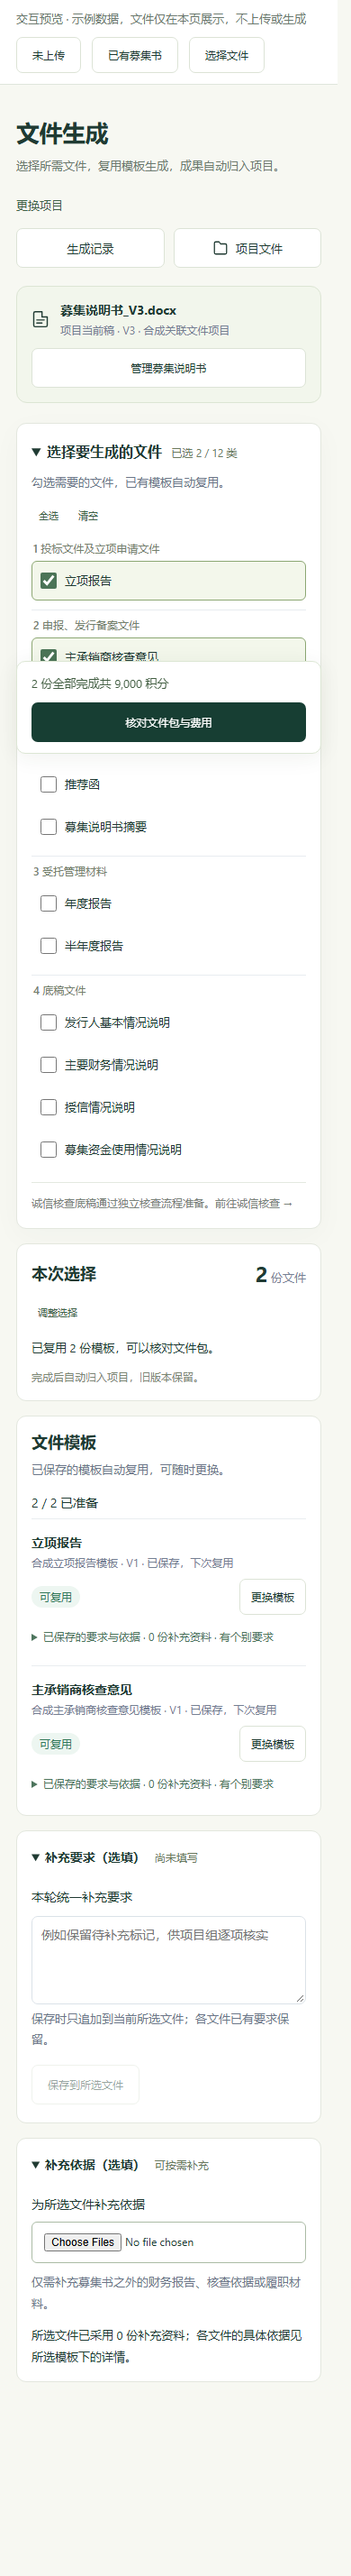
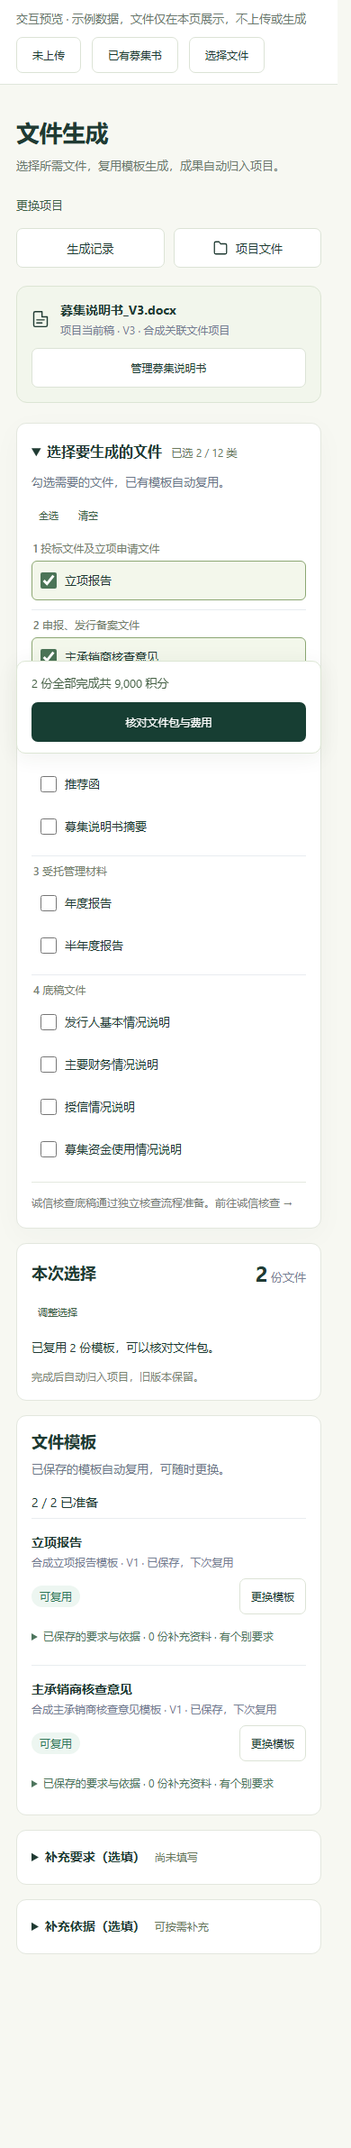
fix(web): balance file generation panels across the page

Changed region(s): [[0.0308, 0.0, 0.8923, 0.9316], [0.6154, 0.4658, 0.8308, 0.4969]]

diff --git a/apps/web/src/file-workspace.ts b/apps/web/src/file-workspace.ts
@@ -224,10 +224,9 @@ export class FileWorkspace {
       <section class="panel pf-original-operations" id="pf-original-operations" aria-label="原保存与需要处理的事项" hidden><h2>先处理原保存</h2><div id="pf-note-recovery" hidden><p id="pf-note-recovery-label"></p><pre id="pf-note-recovery-preview" class="pf-entry-note" hidden></pre><div id="pf-note-recovery-actions"></div></div><div id="pf-live-support-recovery" hidden></div><div id="pf-support-recovery" hidden></div><div id="pf-template-recovery" hidden></div></section>
       <div class="pf-generation-grid"><div class="pf-selection-workspace">      <details class="panel pf-document-directory" id="pf-document-directory" ${directoryOpen?'open':''}><summary>选择要生成的文件 <span id="pf-directory-summary"></span></summary><div class="pf-directory-content"><div class="pf-section-head"><p>勾选需要的文件，已有模板自动复用。</p><div><button class="text-button" id="pf-select-all">全选</button> <button class="text-button" id="pf-select-none">清空</button></div></div>${['1','2.2','3','4.1'].map(folder=>`<div class="pf-category"><h3>${folder[0]} ${PROJECT_DOCUMENT_FOLDERS.find(f=>f.id===folder[0])!.name}</h3>${PROJECT_DOCUMENT_CATALOG.filter(d=>d.folder===folder).map(d=>`<label class="pf-document-option" title="${esc(d.hint)}"><input type="checkbox" data-pf-type="${d.id}" ${this.selected.has(d.id)?'checked':''}/><span><strong>${d.name}</strong><small class="pf-document-hint">${d.hint}</small></span></label>`).join('')}</div>`).join('')}<p class="muted pf-integrity-note">诚信核查底稿通过独立核查流程准备。<a href="${esc('#integrity?'+withProjectContext(new URLSearchParams({project:this.id!})))}">前往诚信核查 →</a></p></div></details>
 <aside class="pf-selection-side"><section class="panel pf-package pf-package-overview" id="pf-package-overview" aria-label="本次文件包"><div class="pf-package-heading"><h2>本次选择</h2><strong class="pf-count" id="pf-count">${this.selected.size}<small> 份文件</small></strong></div><div id="pf-selected-documents"></div><div id="pf-package-readiness" role="status"></div><p>完成后自动归入项目，旧版本保留。</p></section>
-      <section class="panel pf-template-preparation"><div class="pf-section-head"><div><h2>文件模板</h2><p>已保存的模板自动复用，可随时更换。</p></div><span id="pf-prepared"></span></div><div id="pf-template-list"></div></section>
-
+      <section class="panel pf-template-preparation"><div class="pf-section-head"><div><h2>文件模板</h2><p>已保存的模板自动复用，可随时更换。</p></div><span id="pf-prepared"></span></div><div id="pf-template-list"></div></section></aside></div>
       <div class="pf-optional-grid"><details class="panel pf-optional" id="pf-requirements-details" ${requirementsOpen?'open':''}><summary>补充要求（选填） <span id="pf-note-summary"></span></summary><div class="pf-optional-content"><label for="pf-requirements">本轮统一补充要求</label><textarea id="pf-requirements" rows="4" maxlength="12000" placeholder="例如保留待补充标记，供项目组逐项核实">${esc(this.note)}</textarea><p>保存时只追加到当前所选文件；各文件已有要求保留。</p><div id="pf-note-actions-slot"><div id="pf-note-actions"><button class="btn secondary" id="pf-save-requirements">保存到所选文件</button><p id="pf-note-status" role="status">${this.note?'未保存的补充要求已从本浏览器会话恢复。':''}</p></div></div></div></details>
-      <details class="panel pf-optional" id="pf-support-details" ${supportOpen?'open':''}><summary>补充依据（选填） <span id="pf-support-summary"></span></summary><div class="pf-optional-content"><label>为所选文件补充依据<input id="pf-support" type="file" multiple accept=".docx,.pdf,.xlsx"/></label><p class="muted">仅需补充募集书之外的财务报告、核查依据或履职材料。</p><div id="pf-support-actions-slot"><div id="pf-support-actions"><div id="pf-support-list"></div><button class="btn secondary" id="pf-retry-support" hidden>重试保存补充资料</button></div></div></div></details></div></aside></div><footer class="pf-footer pf-documents-next"><a class="btn secondary" href="${esc(this.filesHref())}">返回项目文件</a><div><span id="pf-price"></span><button class="btn secondary" id="pf-footer-template" hidden>添加模板</button><button class="btn primary" id="pf-generate" disabled>核对文件包与费用</button></div></footer></div></div>`,'generate');
+      <details class="panel pf-optional" id="pf-support-details" ${supportOpen?'open':''}><summary>补充依据（选填） <span id="pf-support-summary"></span></summary><div class="pf-optional-content"><label>为所选文件补充依据<input id="pf-support" type="file" multiple accept=".docx,.pdf,.xlsx"/></label><p class="muted">仅需补充募集书之外的财务报告、核查依据或履职材料。</p><div id="pf-support-actions-slot"><div id="pf-support-actions"><div id="pf-support-list"></div><button class="btn secondary" id="pf-retry-support" hidden>重试保存补充资料</button></div></div></div></details></div><footer class="pf-footer pf-documents-next"><a class="btn secondary" href="${esc(this.filesHref())}">返回项目文件</a><div><span id="pf-price"></span><button class="btn secondary" id="pf-footer-template" hidden>添加模板</button><button class="btn primary" id="pf-generate" disabled>核对文件包与费用</button></div></footer></div></div>`,'generate');
     this.bindPreparationView();
     const choseManually=()=>{this.entryAdopted=undefined;this.dismissEntry();};
     document.querySelectorAll<HTMLInputElement>('[data-pf-type]').forEach(c=>c.addEventListener('change',()=>{if(this.busy)return;choseManually();const type=c.dataset.pfType as M4DocumentType;if(c.checked)this.selected.add(type);else this.selected.delete(type);this.saveSelection();this.paintTemplates();this.paintSupport();}));

diff --git a/product-prototype/public/file-generation.html b/product-prototype/public/file-generation.html
@@ -24,8 +24,7 @@
 
 立项报告原有补充要求</p><ul><li>直接使用募集书和模板，可按需补充依据。</li></ul></details></article><article class="pf-prepared-file"><div class="pf-template-row"><div><strong>主承销商核查意见</strong><small>合成主承销商核查意见模板 · V1 · 已保存，下次复用</small></div><span class="pf-chip ">可复用</span><button class="btn secondary" data-pf-template="underwriter">更换模板</button></div><details class="pf-reused-inputs" data-pf-reused="underwriter"><summary>已保存的要求与依据 · 0 份补充资料 · 有个别要求</summary><p data-pf-saved-requirements="underwriter">主承销商核查意见的专业要求
 
-主承销商核查意见原有补充要求</p><ul><li>直接使用募集书和模板，可按需补充依据。</li></ul></details></article></div></section>
-
+主承销商核查意见原有补充要求</p><ul><li>直接使用募集书和模板，可按需补充依据。</li></ul></details></article></div></section></aside></div>
       <div class="pf-optional-grid"><details class="panel pf-optional" id="pf-requirements-details" open=""><summary>补充要求（选填） <span id="pf-note-summary">尚未填写</span></summary><div class="pf-optional-content"><label for="pf-requirements">本轮统一补充要求</label><textarea id="pf-requirements" rows="4" maxlength="12000" placeholder="例如保留待补充标记，供项目组逐项核实" style=""></textarea><p>保存时只追加到当前所选文件；各文件已有要求保留。</p><div id="pf-note-actions-slot"><div id="pf-note-actions"><button class="btn secondary" id="pf-save-requirements" disabled="">保存到所选文件</button><button class="text-button" id="pf-stop-note" hidden="">停止继续保存要求</button><p id="pf-note-status" role="status"></p></div></div></div></details>
-      <details class="panel pf-optional" id="pf-support-details" open=""><summary>补充依据（选填） <span id="pf-support-summary">可按需补充</span></summary><div class="pf-optional-content"><label>为所选文件补充依据<input id="pf-support" type="file" multiple="" accept=".docx,.pdf,.xlsx" style=""></label><p class="muted">仅需补充募集书之外的财务报告、核查依据或履职材料。</p><div id="pf-support-actions-slot"><div id="pf-support-actions"><div id="pf-support-list">所选文件已采用 0 份补充资料；各文件的具体依据见所选模板下的详情。</div><button class="btn secondary" id="pf-retry-support" hidden="">重试保存补充资料</button><button class="text-button" id="pf-stop-support" hidden="">停止继续补充</button></div></div></div></details></div></aside></div><footer class="pf-footer pf-documents-next"><a class="btn secondary" href="#/projects/synthetic-navigation-N/files">返回项目文件</a><div><span id="pf-price">2 份全部完成共 9,000 积分</span><button class="btn secondary" id="pf-footer-template" hidden="">添加 0 份模板</button><button class="btn primary" id="pf-generate">核对文件包与费用</button></div></footer></div></div></template>
+      <details class="panel pf-optional" id="pf-support-details" open=""><summary>补充依据（选填） <span id="pf-support-summary">可按需补充</span></summary><div class="pf-optional-content"><label>为所选文件补充依据<input id="pf-support" type="file" multiple="" accept=".docx,.pdf,.xlsx" style=""></label><p class="muted">仅需补充募集书之外的财务报告、核查依据或履职材料。</p><div id="pf-support-actions-slot"><div id="pf-support-actions"><div id="pf-support-list">所选文件已采用 0 份补充资料；各文件的具体依据见所选模板下的详情。</div><button class="btn secondary" id="pf-retry-support" hidden="">重试保存补充资料</button><button class="text-button" id="pf-stop-support" hidden="">停止继续补充</button></div></div></div></details></div><footer class="pf-footer pf-documents-next"><a class="btn secondary" href="#/projects/synthetic-navigation-N/files">返回项目文件</a><div><span id="pf-price">2 份全部完成共 9,000 积分</span><button class="btn secondary" id="pf-footer-template" hidden="">添加 0 份模板</button><button class="btn primary" id="pf-generate">核对文件包与费用</button></div></footer></div></div></template>
 <script type="module" src="file-generation-preview.js"></script></body></html>

diff --git a/apps/web/test-evidence/file-generation-ux-20261027/documents.html b/apps/web/test-evidence/file-generation-ux-20261027/documents.html
@@ -6,7 +6,6 @@
 
 立项报告原有补充要求</p><ul><li>直接使用募集书和模板，可按需补充依据。</li></ul></details></article><article class="pf-prepared-file"><div class="pf-template-row"><div><strong>主承销商核查意见</strong><small>合成主承销商核查意见模板 · V1 · 已保存，下次复用</small></div><span class="pf-chip ">可复用</span><button class="btn secondary" data-pf-template="underwriter">更换模板</button></div><details class="pf-reused-inputs" data-pf-reused="underwriter"><summary>已保存的要求与依据 · 0 份补充资料 · 有个别要求</summary><p data-pf-saved-requirements="underwriter">主承销商核查意见的专业要求
 
-主承销商核查意见原有补充要求</p><ul><li>直接使用募集书和模板，可按需补充依据。</li></ul></details></article></div></section>
-
+主承销商核查意见原有补充要求</p><ul><li>直接使用募集书和模板，可按需补充依据。</li></ul></details></article></div></section></aside></div>
       <div class="pf-optional-grid"><details class="panel pf-optional" id="pf-requirements-details" open=""><summary>补充要求（选填） <span id="pf-note-summary">尚未填写</span></summary><div class="pf-optional-content"><label for="pf-requirements">本轮统一补充要求</label><textarea id="pf-requirements" rows="4" maxlength="12000" placeholder="例如保留待补充标记，供项目组逐项核实" style=""></textarea><p>保存时只追加到当前所选文件；各文件已有要求保留。</p><div id="pf-note-actions-slot"><div id="pf-note-actions"><button class="btn secondary" id="pf-save-requirements" disabled="">保存到所选文件</button><button class="text-button" id="pf-stop-note" hidden="">停止继续保存要求</button><p id="pf-note-status" role="status"></p></div></div></div></details>
-      <details class="panel pf-optional" id="pf-support-details" open=""><summary>补充依据（选填） <span id="pf-support-summary">可按需补充</span></summary><div class="pf-optional-content"><label>为所选文件补充依据<input id="pf-support" type="file" multiple="" accept=".docx,.pdf,.xlsx" style=""></label><p class="muted">仅需补充募集书之外的财务报告、核查依据或履职材料。</p><div id="pf-support-actions-slot"><div id="pf-support-actions"><div id="pf-support-list">所选文件已采用 0 份补充资料；各文件的具体依据见所选模板下的详情。</div><button class="btn secondary" id="pf-retry-support" hidden="">重试保存补充资料</button><button class="text-button" id="pf-stop-support" hidden="">停止继续补充</button></div></div></div></details></div></aside></div><footer class="pf-footer pf-documents-next"><a class="btn secondary" href="#/projects/synthetic-navigation-N/files">返回项目文件</a><div><span id="pf-price">2 份全部完成共 9,000 积分</span><button class="btn secondary" id="pf-footer-template" hidden="">添加 0 份模板</button><button class="btn primary" id="pf-generate">核对文件包与费用</button></div></footer></div></div>
+      <details class="panel pf-optional" id="pf-support-details" open=""><summary>补充依据（选填） <span id="pf-support-summary">可按需补充</span></summary><div class="pf-optional-content"><label>为所选文件补充依据<input id="pf-support" type="file" multiple="" accept=".docx,.pdf,.xlsx" style=""></label><p class="muted">仅需补充募集书之外的财务报告、核查依据或履职材料。</p><div id="pf-support-actions-slot"><div id="pf-support-actions"><div id="pf-support-list">所选文件已采用 0 份补充资料；各文件的具体依据见所选模板下的详情。</div><button class="btn secondary" id="pf-retry-support" hidden="">重试保存补充资料</button><button class="text-button" id="pf-stop-support" hidden="">停止继续补充</button></div></div></div></details></div><footer class="pf-footer pf-documents-next"><a class="btn secondary" href="#/projects/synthetic-navigation-N/files">返回项目文件</a><div><span id="pf-price">2 份全部完成共 9,000 积分</span><button class="btn secondary" id="pf-footer-template" hidden="">添加 0 份模板</button><button class="btn primary" id="pf-generate">核对文件包与费用</button></div></footer></div></div>

diff --git a/apps/web/tests/file-generation-workbench.spec.ts b/apps/web/tests/file-generation-workbench.spec.ts
@@ -574,10 +574,18 @@ test('source to directory preserves the exact version and presents selection bes
   const directory=await page.locator('#pf-document-directory').boundingBox(),side=await page.locator('.pf-selection-side').boundingBox();
   expect(directory!.width).toBeGreaterThan(380);expect(side!.width).toBeGreaterThan(290);
   expect(directory!.height).toBeLessThan(660);
+  expect(side!.height).toBeLessThan(directory!.height+120);
   expect(Math.abs(directory!.y-side!.y)).toBeLessThan(3);expect(side!.x).toBeGreaterThan(directory!.x+directory!.width);
   for(const panel of await page.locator('.pf-selection-side > *').all()){
     const box=(await panel.boundingBox())!;expect(Math.abs(box.x-side!.x)).toBeLessThan(2);expect(Math.abs(box.width-side!.width)).toBeLessThan(2);
   }
+  const optional=await page.locator('.pf-optional-grid').boundingBox(),requirements=await page.locator('#pf-requirements-details').boundingBox(),support=await page.locator('#pf-support-details').boundingBox();
+  expect(optional!.y).toBeGreaterThanOrEqual(Math.max(directory!.y+directory!.height,side!.y+side!.height));
+  expect(Math.abs(optional!.x-directory!.x)).toBeLessThan(2);
+  expect(Math.abs(optional!.x+optional!.width-side!.x-side!.width)).toBeLessThan(2);
+  expect(Math.abs(requirements!.y-support!.y)).toBeLessThan(2);
+  expect(support!.x).toBeGreaterThan(requirements!.x+requirements!.width);
+  expect(Math.abs(requirements!.width-support!.width)).toBeLessThan(2);
   await expect(page.locator('.pf-document-option')).toHaveCount(12);
   for(const row of await page.locator('.pf-document-option').all()){
     const box=(await row.boundingBox())!;expect(box.height).toBeGreaterThanOrEqual(44);expect(box.height).toBeLessThan(50);

diff --git a/product-prototype/public/file-generation-ux.css b/product-prototype/public/file-generation-ux.css
@@ -72,8 +72,7 @@
 .pf-selection-side .pf-chip { justify-self: start; align-self: center; }
 .pf-selection-side .pf-reused-inputs { font-size: 12px; }
 .pf-selection-side .pf-template-preparation[hidden] { display: none; }
-.pf-documents-layout .pf-optional-grid { display: grid; grid-template-columns: 1fr 1fr; margin-top: 22px; gap: 22px; }
-.pf-documents-layout .pf-selection-side .pf-optional-grid { grid-template-columns: minmax(0,1fr); margin: 0; gap: 16px; }
+.pf-documents-layout .pf-optional-grid { display: grid; grid-area: auto; grid-template-columns: minmax(0,1fr) minmax(0,1fr); align-items: start; margin-top: 22px; gap: 22px; }
 .pf-documents-layout .pf-optional { box-shadow: none; margin: 0; }
 .pf-documents-layout .pf-documents-next { position: sticky; bottom: 12px; z-index: 4; margin: 22px 0 0; padding: 16px 20px; background: #fff; box-shadow: 0 4px 24px #243a2312; }
 .pf-documents-next #pf-price { font-size: 13px; }

diff --git a/product-prototype/public/file-generation-preview.js b/product-prototype/public/file-generation-preview.js
@@ -3,6 +3,7 @@ const host = document.querySelector('#preview');
 const message = text => { document.querySelector('#preview-message').textContent = text; };
 function show(scene) {
   host.replaceChildren(document.querySelector('#'+scene).content.cloneNode(true));
+  if(matchMedia('(max-width:760px)').matches)host.querySelectorAll('.pf-optional').forEach(panel=>panel.open=false);
   message('');
   document.querySelectorAll('[data-scene]').forEach(button => button.setAttribute('aria-pressed',String(button.dataset.scene === scene)));
   host.querySelector('#pf-source-next')?.addEventListener('click',()=>show('documents'));
